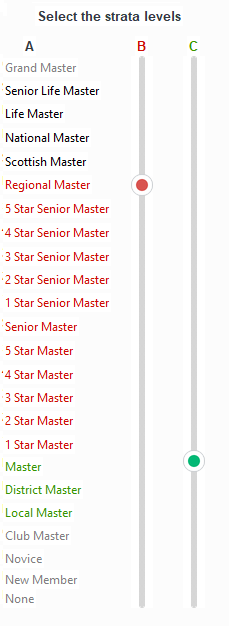
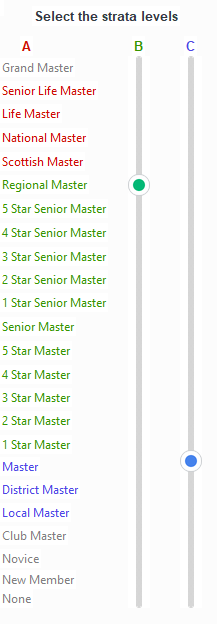
Change stratification colours
Changed slider/text colours to match Bridgewebs. Updated help to match.

diff --git a/stratify.py b/stratify.py
@@ -26,9 +26,9 @@ MPCode = (0, 5, 10, 20,
           150, 160, 165, 170,
           180, 190, 200, 210)
 
-StratAColor = "#000000"
-StratBColor = "#CC1000"
-StratCColor = "#379600"
+StratAColor = "#CC1000"
+StratBColor = "#379600"
+StratCColor = "#4B48E4"
 WarningColor = "#FF8800"
 CompleteColor = "#44880C"
 
@@ -116,9 +116,15 @@ class stratify(baseUIClass):
             self.overallNSStringLabel.set('Strat A N/S Pairs:')
             self.overallEWStringLabel.set('Strat A E/W Pairs:')
             self.strat1NSStringLabel.set('Strat B N/S Pairs:')
-            self.strat1EWLabel.config(text='Strat B E/W Pairs')
-            self.strat2NSLabel.config(text='Strat C N/S Pairs:')
-            self.strat2EWLabel.config(text='Strat C E/W Pairs:')
+            self.strat1EWStringLabel.config(text='Strat B E/W Pairs')
+            self.strat2NSStringLabel.config(text='Strat C N/S Pairs:')
+            self.strat2EWStringLabel.config(text='Strat C E/W Pairs:')
+            self.overallNSLabel.configure(foreground=StratAColor)
+            self.overallEWLabel.configure(foreground=StratAColor)
+            self.strat1NSLabel.configure(foreground=StratBColor)
+            self.strat1EWStringLabel.configure(foreground=StratBColor)
+            self.strat2NSStringLabel.configure(foreground=StratCColor)
+            self.strat2EWStringLabel.configure(foreground=StratCColor)
         else:
             self.overallNSPairs.set(str(self.buckets[0]) + ' (' + str(self.buckets[0]+self.buckets[2]) + ' overall)')
             self.overallEWPairs.set(str(self.buckets[2]-self.buckets[4]) + ' (' + str(self.buckets[2]) + ' in stratum)')
@@ -129,25 +135,12 @@ class stratify(baseUIClass):
             self.overallNSStringLabel.set('Strat A Pairs:')
             self.overallEWStringLabel.set('Strat B Pairs:')
             self.strat1NSStringLabel.set('Strat C Pairs:')
-            self.strat1EWLabel.config(text='')
-            self.strat2NSLabel.config(text='')
-            self.strat2EWLabel.config(text='')
-
-    def resetStratStrings(self):
-        """ Clears the tournament details strings.
-        """
-        self.overallNSStringLabel.set('Strat A N/S Pairs:')
-        self.overallEWStringLabel.set('Strat A E/W Pairs:')
-        self.strat1NSStringLabel.set('Strat B N/S Pairs:')
-        self.strat1EWLabel.config(text='Strat B E/W Pairs:')
-        self.strat2NSLabel.config(text='Strat C N/S Pairs:')
-        self.strat2EWLabel.config(text='Strat C E/W Pairs:')
-        self.overallNSPairs.set('')
-        self.overallEWPairs.set('')
-        self.strat1NSPairs.set('')
-        self.strat1EWPairs.set('')
-        self.strat2NSPairs.set('')
-        self.strat2EWPairs.set('')
+            self.overallNSLabel.configure(foreground=StratAColor)
+            self.overallEWLabel.configure(foreground=StratBColor)
+            self.strat1NSLabel.configure(foreground=StratCColor)
+            self.strat1EWStringLabel.config(text='')
+            self.strat2NSStringLabel.config(text='')
+            self.strat2EWStringLabel.config(text='')
 
     def coloriseLabels(self):
         for i, lbl in enumerate(self.label_widgets):
@@ -245,7 +238,7 @@ class stratify(baseUIClass):
                                orient="vertical",
                                variable=self.BSliderVar,
                                length=self.slider_height,
-                               bootstyle="danger",
+                               bootstyle="success",
                                command=lambda event: self.enforce_limits(None, self.BSliderVar, True)) # Uses Bootstrap theme styling directly
         self.scaleB.grid(row=2, column=1, columnspan=1, rowspan=len(UIMPLevels), sticky="w", padx=20)
         self.scaleB.bind("<Button-1>", lambda event: self.handle_trough_click(event, self.BSliderVar, True))
@@ -257,7 +250,7 @@ class stratify(baseUIClass):
                                orient="vertical",
                                variable=self.CSliderVar,
                                length=self.slider_height,
-                               bootstyle="success",
+                               bootstyle="primary",
                                command=lambda event: self.enforce_limits(None, self.CSliderVar, False)) # Uses Bootstrap theme styling directly
         self.scaleC.grid(row=2, column=2, columnspan=1, rowspan=len(UIMPLevels), sticky="w", padx=10)
         self.scaleC.bind("<Button-1>", lambda event: self.handle_trough_click(event, self.CSliderVar, False))
@@ -265,7 +258,7 @@ class stratify(baseUIClass):
 
         self.strataLabel1 = tb.Label(self.frame, text="Select the strata levels", font=("Arial", 10, "bold"), justify='left')
         self.strataLabel1.grid(row=0, column=0, columnspan=3, pady=10)
-        self.stratLevelsLabel1 = tb.Label(self.frame, text="A", font=("Arial", 10, "bold"), justify='left')
+        self.stratLevelsLabel1 = tb.Label(self.frame, text="A", font=("Arial", 10, "bold"), justify='left', foreground=StratAColor)
         self.stratLevelsLabel1.grid(row=1, column=0, sticky="w", padx=20)
         self.stratLevelsLabel2 = tb.Label(self.frame, text="B", font=("Arial", 10, "bold"), justify='left', foreground=StratBColor)
         self.stratLevelsLabel2.grid(row=1, column=1, sticky="w", padx=24)
@@ -300,16 +293,16 @@ class stratify(baseUIClass):
         self.strat1NSLabel.grid(row=7, column=4, sticky="w", padx=20)
         self.strat1NSContentLabel = tb.Label(self.frame, textvariable=self.strat1NSPairs, font=("Arial", 10), justify='left')
         self.strat1NSContentLabel.grid(row=7, column=4, sticky="w", padx=150)
-        self.strat1EWLabel = tb.Label(self.frame, text='', font=("Arial", 10), justify='left')
-        self.strat1EWLabel.grid(row=8, column=4, sticky="w", padx=20)
+        self.strat1EWStringLabel = tb.Label(self.frame, text='', font=("Arial", 10), justify='left')
+        self.strat1EWStringLabel.grid(row=8, column=4, sticky="w", padx=20)
         self.strat1EWContentLabel = tb.Label(self.frame, textvariable=self.strat1EWPairs, font=("Arial", 10), justify='left')
         self.strat1EWContentLabel.grid(row=8, column=4, sticky="w", padx=150)
-        self.strat2NSLabel = tb.Label(self.frame, text='', font=("Arial", 10), justify='left')
-        self.strat2NSLabel.grid(row=9, column=4, sticky="w", padx=20)
+        self.strat2NSStringLabel = tb.Label(self.frame, text='', font=("Arial", 10), justify='left')
+        self.strat2NSStringLabel.grid(row=9, column=4, sticky="w", padx=20)
         self.strat2NSContentLabel = tb.Label(self.frame, textvariable=self.strat2NSPairs, font=("Arial", 10), justify='left')
         self.strat2NSContentLabel.grid(row=9, column=4, sticky="w", padx=150)
-        self.strat2EWLabel = tb.Label(self.frame, text='', font=("Arial", 10), justify='left')
-        self.strat2EWLabel.grid(row=10, column=4, sticky="w", padx=20)
+        self.strat2EWStringLabel = tb.Label(self.frame, text='', font=("Arial", 10), justify='left')
+        self.strat2EWStringLabel.grid(row=10, column=4, sticky="w", padx=20)
         self.strat2EWContentLabel = tb.Label(self.frame, textvariable=self.strat2EWPairs, font=("Arial", 10), justify='left')
         self.strat2EWContentLabel.grid(row=10, column=4, sticky="w", padx=150)
 
@@ -364,11 +357,11 @@ class stratify(baseUIClass):
         self.stratResultsALabel.destroy()
         self.stratResultsLabel.destroy()
         self.strat2EWContentLabel.destroy()
-        self.strat2EWLabel.destroy()
+        self.strat2EWStringLabel.destroy()
         self.strat2NSContentLabel.destroy()
-        self.strat2NSLabel.destroy()
+        self.strat2NSStringLabel.destroy()
         self.strat1EWContentLabel.destroy()
-        self.strat1EWLabel.destroy()
+        self.strat1EWStringLabel.destroy()
         self.strat1NSContentLabel.destroy()
         self.strat1NSLabel.destroy()
         self.overallEWContentLabel.destroy()
